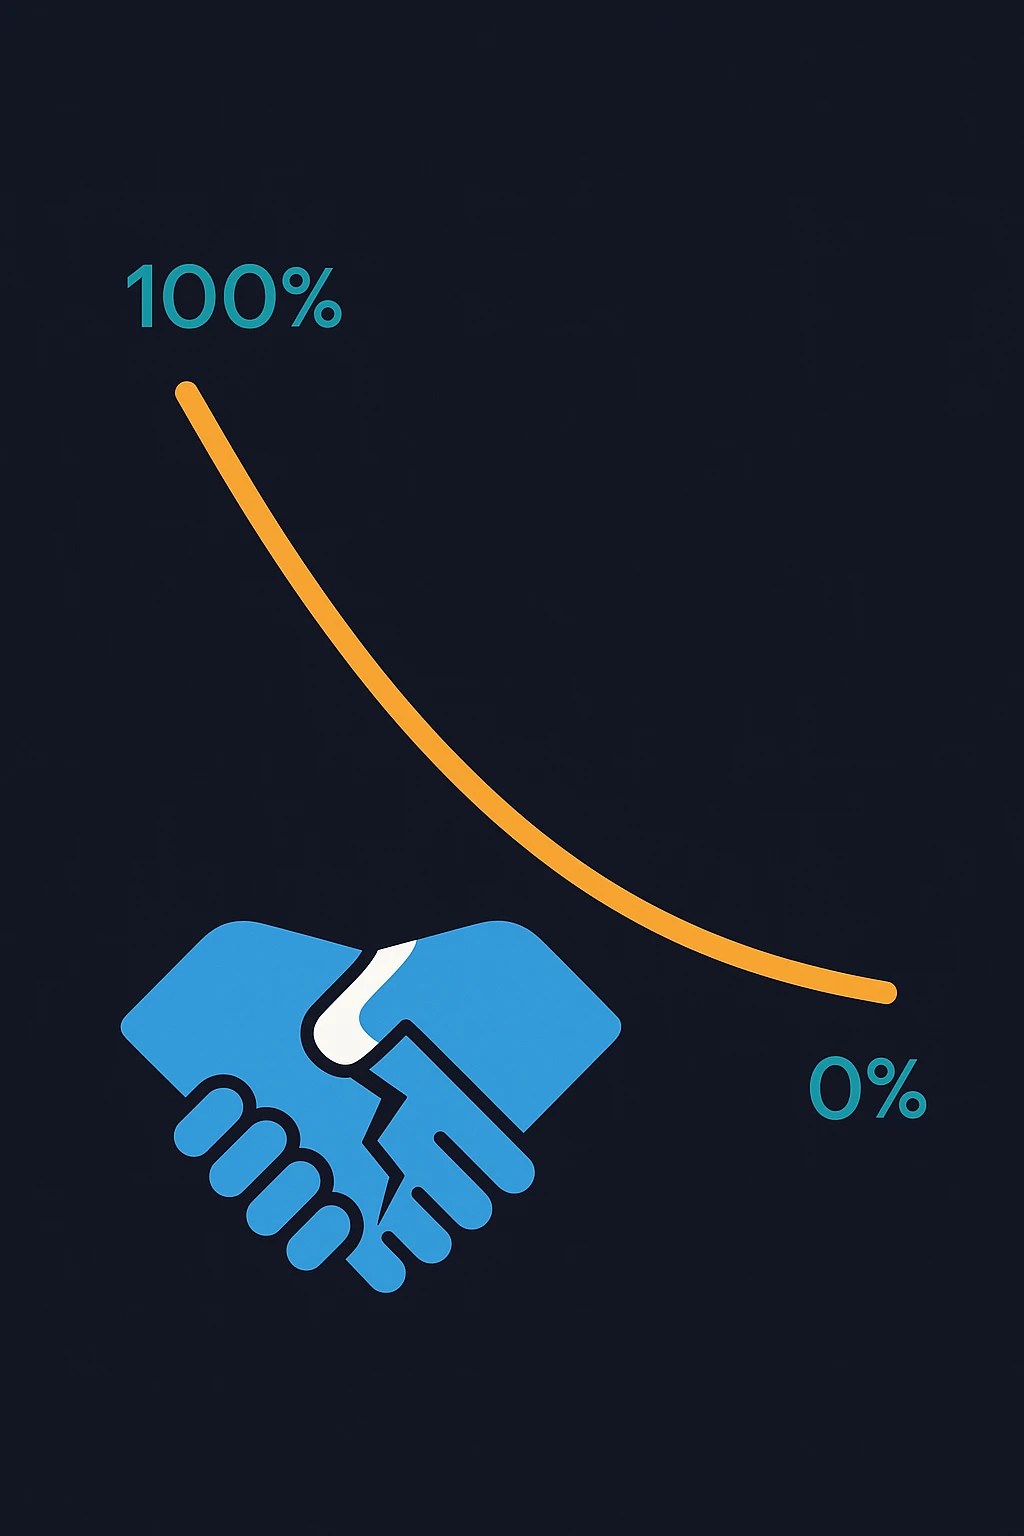
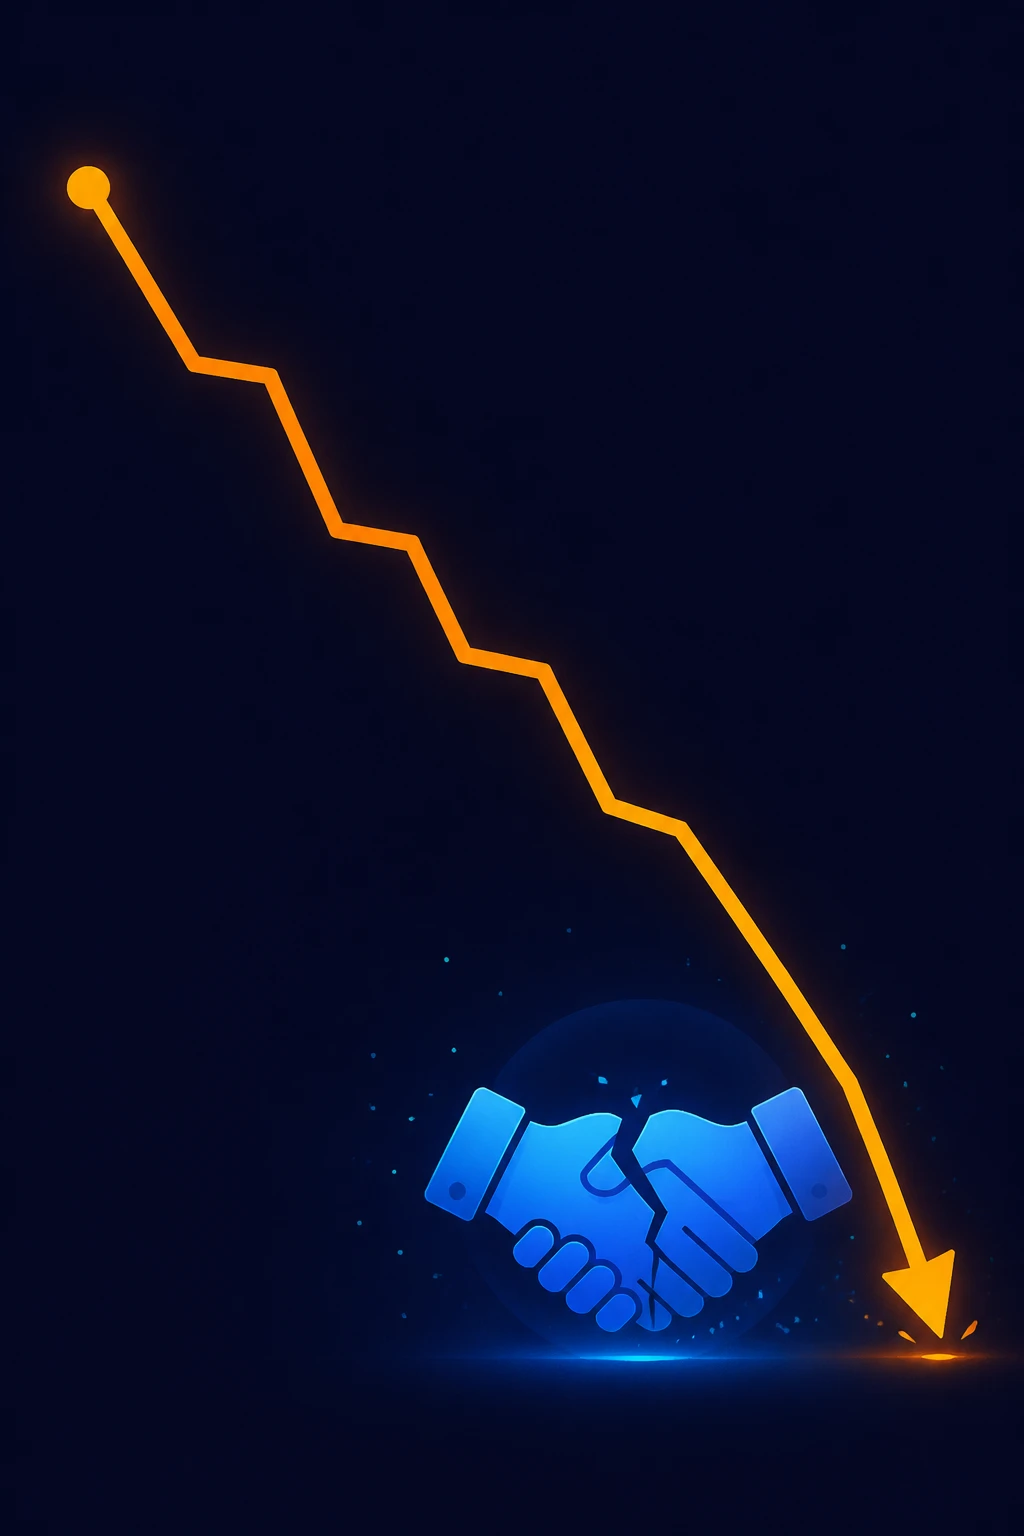
fix(vibecoding): danger illustrations without invented figures — vc_danger_vuln (shield, no floating percentages) and vc_danger_trust (falling curve, no axis numbers) regenerated with gpt-image-2; prompts now forbid digits; previous images kept as _v2 (NG, 2026-11-25)
Claude-Session: https://claude.ai/code/session_014rVauQ7gKwtw7E52CUAyuA

Changed region(s): [[0.0625, 0.0938, 0.9688, 0.9375]]

diff --git a/modules/ai4se6d_vibecoding/blocks/bck_vibecoding_danger_vuln.py b/modules/ai4se6d_vibecoding/blocks/bck_vibecoding_danger_vuln.py
@@ -22,9 +22,10 @@ _text_cell = Style.create(s.container.layouts.vertical_center_layout + Style("te
 
 _PROMPT = (
     f"{_PREFIX} A shield icon in electric blue with deep cracks running through it, "
-    "revealing amber danger glow beneath. Percentage numbers float around the shield "
-    "in teal. Represents security vulnerabilities hidden in AI-generated code "
-    f"that appears to work correctly. {_SUFFIX}"
+    "revealing amber danger glow beneath. Small teal code brackets and dots float around the shield. "
+    "Represents security vulnerabilities hidden in AI-generated code that appears to work correctly. "
+    "No numbers, no digits, no percent signs anywhere "   # NG, 2026-11-25: invented figures contradicted the slide
+    f"{_SUFFIX}"
 )
 
 def build():

diff --git a/modules/ai4se6d_vibecoding/blocks/bck_vibecoding_danger_trust.py b/modules/ai4se6d_vibecoding/blocks/bck_vibecoding_danger_trust.py
@@ -34,8 +34,9 @@ _PROMPT = (
     f"{_PREFIX} A large downward-trending graph line in amber, starting high on the left "
     "and dropping sharply to the right. A broken trust icon (handshake with a crack "
     "through it) in electric blue at the bottom of the curve. "
-    "Represents declining developer confidence "
-    f"in AI accuracy over time. {_SUFFIX}"
+    "Represents declining developer confidence in AI accuracy over time. The curve has no axes, no tick marks, "
+    "no numbers, no digits and no percent signs "   # NG, 2026-11-25: invented figures contradicted the slide
+    f"{_SUFFIX}"
 )
 
 
